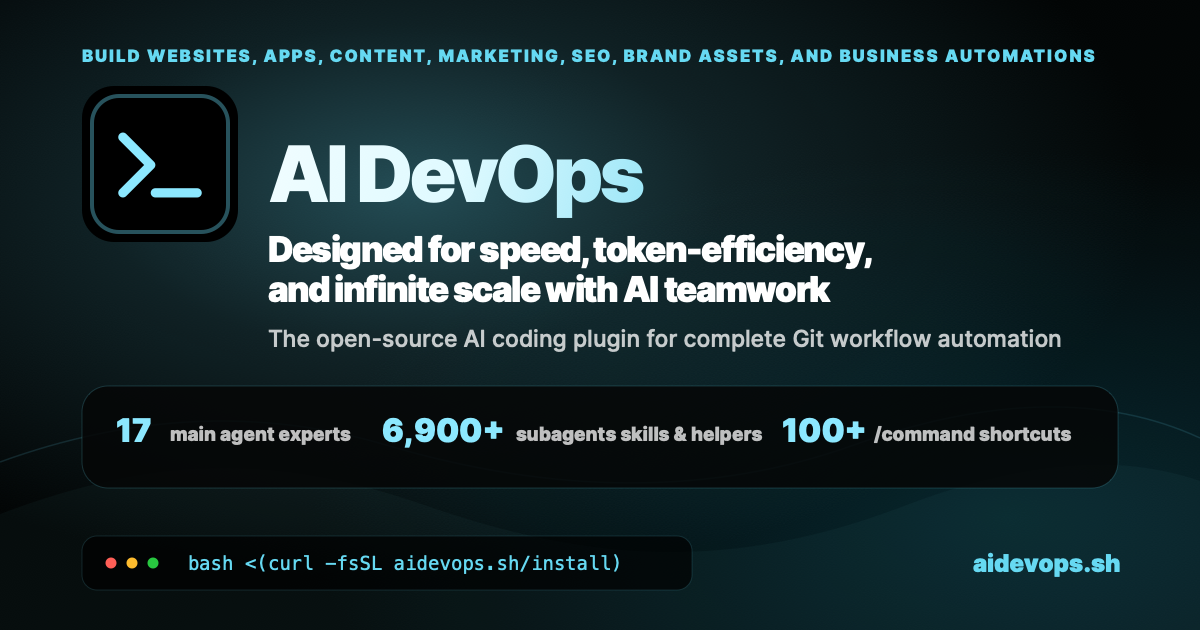
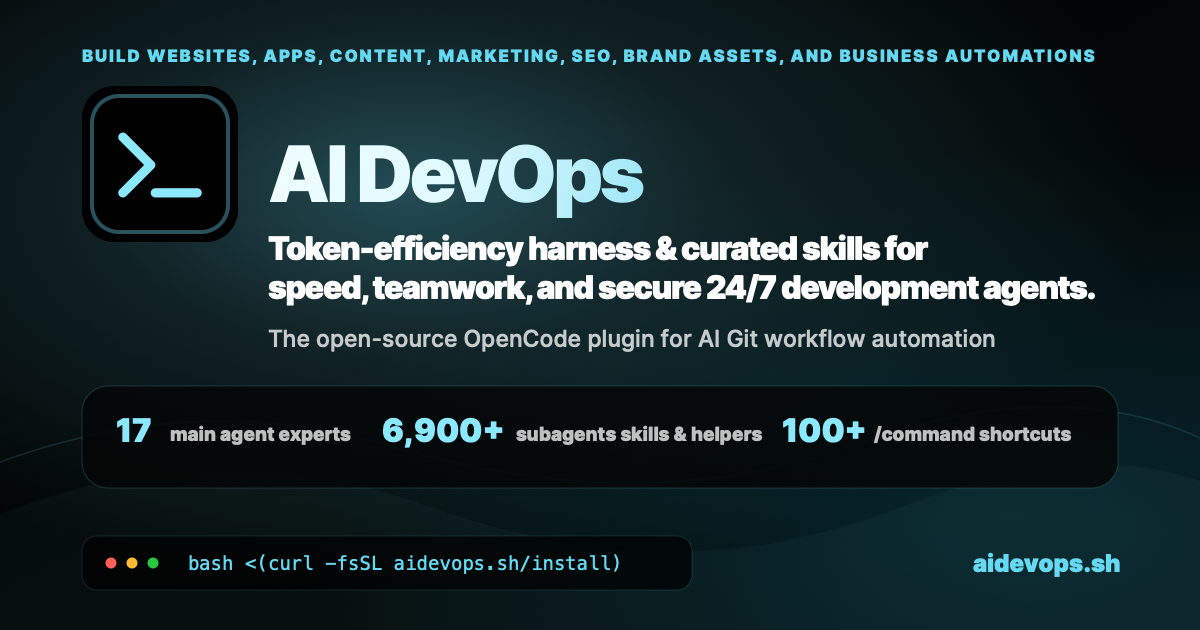
GH#175: feat: social share image elevator-pitch headline and matching alt text

Changed region(s): [[0.2158, 0.3619, 0.925, 0.4825], [0.37, 0.5127, 0.8942, 0.573]]

diff --git a/index.html b/index.html
@@ -18,22 +18,22 @@
     <meta property="og:url" content="https://aidevops.sh/">
     <meta property="og:title" content="AI DevOps Assistant &amp; OpenCode Plugin">
     <meta property="og:description" content="AIDevOps is an open-source AI DevOps assistant framework and OpenCode plugin for autonomous project delivery across code, infrastructure, SEO, and services.">
-    <meta property="og:image" content="https://aidevops.sh/og-image.png?v=4">
-    <meta property="og:image:secure_url" content="https://aidevops.sh/og-image.png?v=4">
+    <meta property="og:image" content="https://aidevops.sh/og-image.png?v=5">
+    <meta property="og:image:secure_url" content="https://aidevops.sh/og-image.png?v=5">
     <meta property="og:image:width" content="1200">
     <meta property="og:image:height" content="630">
-    <meta property="og:image:alt" content="AI DevOps assistant and OpenCode plugin for scaleable autonomous delivery">
+    <meta property="og:image:alt" content="AI DevOps: token-efficiency harness &amp; curated skills for speed, teamwork, and secure 24/7 development agents. The open-source OpenCode plugin for AI Git workflow automation.">
     <meta property="og:site_name" content="AI DevOps">
     <meta property="og:locale" content="en_US">
-    <meta property="og:logo" content="https://aidevops.sh/og-image.png?v=4">
+    <meta property="og:logo" content="https://aidevops.sh/og-image.png?v=5">
     
     <!-- Twitter -->
     <meta name="twitter:card" content="summary_large_image">
     <meta name="twitter:url" content="https://aidevops.sh/">
     <meta name="twitter:title" content="AI DevOps Assistant &amp; OpenCode Plugin">
     <meta name="twitter:description" content="AIDevOps is an open-source AI DevOps assistant framework and OpenCode plugin for autonomous project delivery across code, infrastructure, SEO, and services.">
-    <meta name="twitter:image" content="https://aidevops.sh/og-image.png?v=4">
-    <meta name="twitter:image:alt" content="AI DevOps assistant and OpenCode plugin for scaleable autonomous delivery">
+    <meta name="twitter:image" content="https://aidevops.sh/og-image.png?v=5">
+    <meta name="twitter:image:alt" content="AI DevOps: token-efficiency harness &amp; curated skills for speed, teamwork, and secure 24/7 development agents. The open-source OpenCode plugin for AI Git workflow automation.">
     <meta name="twitter:creator" content="@marcuswquinn">
     
     <!-- Additional SEO -->
@@ -79,7 +79,7 @@
                 "url": "https://aidevops.sh/",
                 "logo": {
                     "@type": "ImageObject",
-                    "url": "https://aidevops.sh/og-image.png?v=4"
+                    "url": "https://aidevops.sh/og-image.png?v=5"
                 },
                 "sameAs": [
                     "https://github.com/marcusquinn/aidevops",
@@ -141,7 +141,7 @@
                 },
                 "primaryImageOfPage": {
                     "@type": "ImageObject",
-                    "url": "https://aidevops.sh/og-image.png?v=4"
+                    "url": "https://aidevops.sh/og-image.png?v=5"
                 }
             },
             {

diff --git a/DESIGN.md b/DESIGN.md
@@ -178,8 +178,9 @@ Construction values live in the Brand core; these are website-specific placement
 - Do not add a circular blob/glow behind the social graph icon mark.
 - Approved eyebrow: `BUILD WEBSITES, APPS, CONTENT, MARKETING, SEO, BRAND ASSETS, AND BUSINESS AUTOMATIONS` (updated in #121).
 - Approved title: `AI DevOps`.
-- Approved headline (two lines): `Designed for speed, token-efficiency,` / `and infinite scale with AI teamwork`.
-- Approved supporting line: `The open-source AI coding plugin for complete Git workflow automation`.
+- Approved headline (two lines, 32px, the elevator pitch shown when links are shared; September 2026): `Token-efficiency harness & curated skills for` / `speed, teamwork, and secure 24/7 development agents.` The second line must end inside the stats box's right edge (`x ≤ 1118`).
+- Approved supporting line: `The open-source OpenCode plugin for AI Git workflow automation`.
+- `og:image:alt` and `twitter:image:alt` in `index.html` repeat the headline and supporting line, so the alt text always describes what the image says. Update them together.
 - Approved stats labels (numbers refreshed by `scripts/update_site_stats.py`):
   - `17 main agent experts` — upstream README `main agents`.
   - `6,900+ subagents skills & helpers` — `.agents` tree item count rounded down to the hundred.
@@ -207,7 +208,7 @@ Construction values live in the Brand core; these are website-specific placement
   - `apple-touch-icon.png`
   - `android-chrome-192x192.png`
   - `android-chrome-512x512.png`
-- Current public cache-buster versions: social image `og-image.png?v=4`; favicons, app icons, and manifest `v=5`; `styles.css?v=21`; `script.js?v=7`.
+- Current public cache-buster versions: social image `og-image.png?v=5`; favicons, app icons, and manifest `v=5`; `styles.css?v=21`; `script.js?v=7`.
 - CI rewrites `og-image.svg` but does not re-render `og-image.png`. Re-render the PNG with `sips` and bump its cache-buster when social metrics change materially.
 - Bump the matching cache-buster whenever committed asset bytes change.
 - Keep `index.html` and `site.webmanifest` cache-busters in sync.
